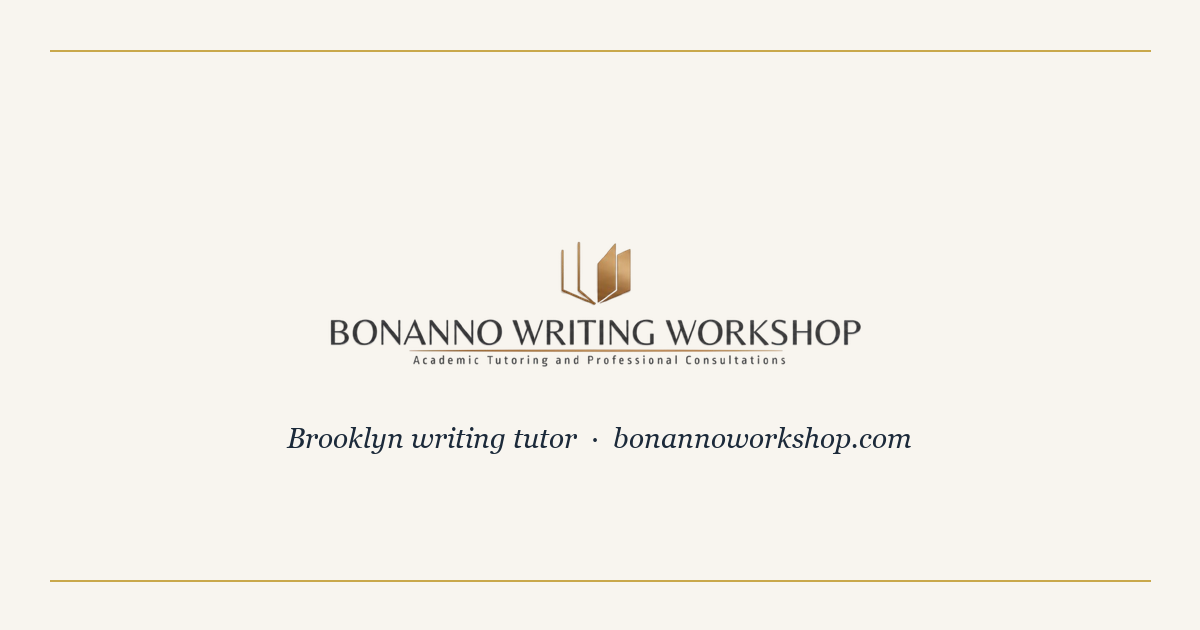
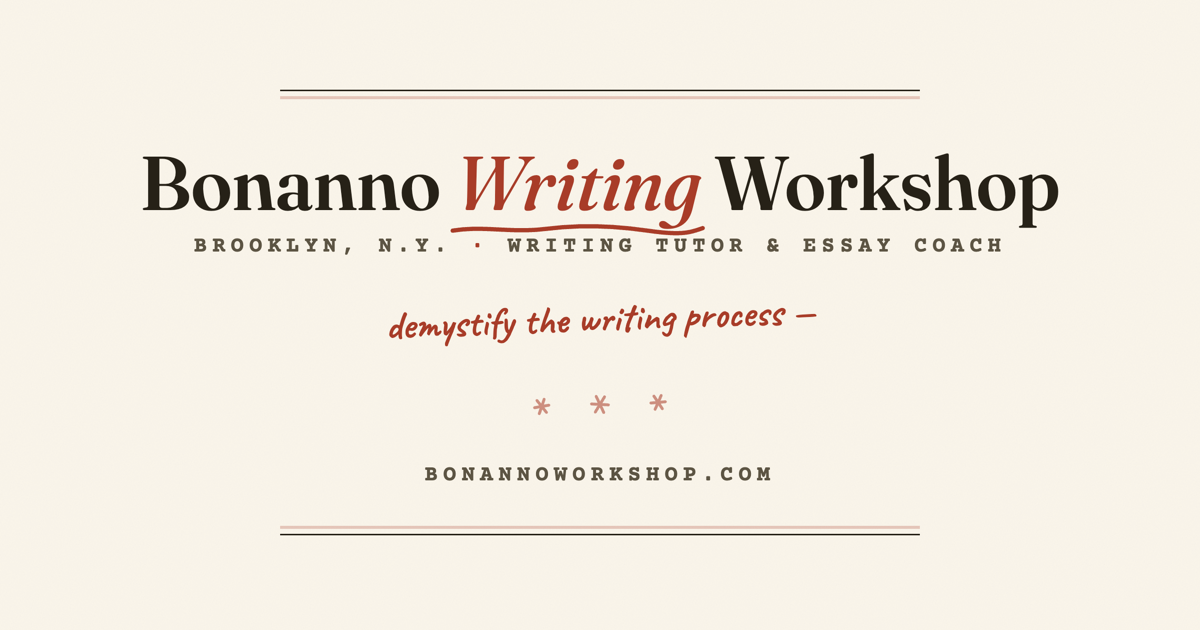
Add design-system style guide, agent instructions, and rebranded OG image

diff --git a/STYLEGUIDE.md b/STYLEGUIDE.md
@@ -1,0 +1,176 @@
+# Bonanno Writing Workshop — Design System
+
+**"The draft on the desk."** Every page reads as a working manuscript that a good
+teacher has marked up: warm paper, ink text, red-pencil annotations, typewriter
+labels, handwritten margin notes. Shipped July 2026, replacing the navy/gold design.
+
+This is the canonical reference for anyone (human or agent) building new pages or
+documents for bonannoworkshop.com or restyling the bww-manager app. Match it exactly —
+don't improvise new colors, fonts, or motifs without Sarah's sign-off.
+
+---
+
+## 1. Tokens
+
+Copy this block into any new page. Pages on this site are **self-contained HTML files
+with inline CSS** — no shared stylesheet, no frameworks, no build step.
+
+```css
+:root {
+    --paper: #faf5ea;         /* page background (warm paper) */
+    --paper-deep: #f2ead7;    /* deeper band sections (intensive, testimonials) */
+    --paper-card: #fffdf6;    /* cards / sheets that sit on the paper */
+    --ink: #262117;           /* primary text; also the footer background */
+    --ink-soft: #5c5443;      /* secondary text */
+    --ink-faint: #8a8171;     /* metadata, fine print */
+    --pencil: #a83c28;        /* THE accent: teacher's red pencil */
+    --pencil-soft: rgba(168, 60, 40, 0.55);
+    --pencil-faint: rgba(168, 60, 40, 0.22);
+    --rule: rgba(38, 33, 23, 0.14);   /* hairlines (0.16 on cards is also used) */
+    --serif: 'Fraunces', Georgia, serif;
+    --body: 'Newsreader', Georgia, serif;
+    --hand: 'Caveat', cursive;
+    --mono: 'Courier Prime', 'Courier New', monospace;
+}
+```
+
+Newsletter archive accent rotation (`/writing-tips` cards only): `--teal: #2f6f62`,
+`--sienna: #b35a2d`, `--gold: #b08d3c`. Inside the letters themselves the accent is
+uniformly `--pencil`.
+
+**Paper texture** — the body gets an SVG noise overlay (see any page's `body`
+`background-image`, a `feTurbulence` data URI at `opacity='0.05'`).
+
+## 2. Type
+
+Google Fonts load (one link, all four families):
+
+```
+https://fonts.googleapis.com/css2?family=Fraunces:ital,opsz,wght@0,9..144,400;0,9..144,500;0,9..144,600;1,9..144,400;1,9..144,500&family=Newsreader:ital,opsz,wght@0,6..72,400;0,6..72,500;1,6..72,400&family=Caveat:wght@500;600&family=Courier+Prime:ital,wght@0,400;0,700;1,400&display=swap
+```
+
+| Role | Font | Usage |
+|---|---|---|
+| Display / headings | **Fraunces** 500–600 | h1 `clamp(44px, 5.6vw, 68px)` on the homepage hero; section h2 34px; card h3 19–24px. Italic Fraunces for emphasis words and pull-quotes. |
+| Body | **Newsreader** 400/500 | 17.5px, line-height 1.75. Secondary text in `--ink-soft`. |
+| Labels / meta | **Courier Prime** 700 | `.type-label`: 12.5px, `letter-spacing: 0.22em`, uppercase, `--pencil`. Softer meta (`.type-meta`): 13px, `--ink-soft`. Buttons also use Courier. |
+| Handwriting | **Caveat** 600 | `.hand-note`: ~20–22px, `--pencil`, always slightly rotated (`rotate(-1.5deg)` to `-4deg`). This is "Sarah's pencil" — margin notes, asides, insertions. |
+
+## 3. Signature motifs (copy from index.html)
+
+- **Squiggle underline** — hand-drawn SVG under one key phrase per heading, stroke
+  `--pencil`, animates via `stroke-dashoffset` on reveal. Class `.squiggle`. Use on
+  at most one phrase per page section.
+- **Dinkus** — three hand-drawn asterisks (SVG, `--pencil-soft`, whole thing rotated
+  −2°) marking paper-to-paper section breaks. Class `.dinkus`. Vary each instance's
+  per-asterisk rotations slightly.
+- **Ledger section head** — `.section-head`: mono `§ N` number in pencil + Fraunces h2,
+  hairline bottom border with a 64px × 3px `--pencil-soft` overstrike at the left.
+- **Hand notes** — `.hand-note`/`.margin-note` Caveat asides. Wording must sound like
+  Sarah's real feedback voice (see §6).
+- **Torn paper edges** — `.torn` band edges via a jagged SVG strip in `--paper`,
+  repeated-x, flipped (`scaleY(-1)`) for the bottom edge. Used on `--paper-deep` bands.
+- **Proof-mark watermarks** — `.proofmark`: oversized ¶ / ✓ / ^ / "stet." at
+  `opacity: 0.05`, absolutely positioned in section corners, `display: none` ≤1100px.
+- **Sheets** — `.sheet`: `--paper-card` card, 1px `--rule` border, slight rotation
+  (±0.3–2°), soft double shadow, optional masking-tape pseudo-element on top.
+  Cards never use border-radius beyond 2px; this design is square-cornered.
+- **Clip-out coupon** — `.clipout`: dashed `--pencil-soft` border with a rotated ✂
+  scissors glyph breaking the top edge. Used for signup forms (/subscribe, /worksheet,
+  homepage lead magnet).
+
+## 4. Components
+
+- **Buttons** (`.btn`): Courier 700, uppercase, letterspaced; solid `--ink` or
+  `--pencil` background with paper text; **hard offset shadow** `3px 3px 0
+  var(--pencil-faint)` that grows on hover (translate −1px,−1px) and shrinks on
+  :active. Ghost variant: transparent with `--ink-soft` border. Radius 2px.
+- **Links**: `.link-under` — mono uppercase with a 2px `--pencil-soft` bottom border.
+  In-copy links are `--pencil`.
+- **Forms**: write-on-the-line inputs — no boxes; `border-bottom: 1.5px solid
+  var(--ink-soft)`, focus → `--pencil`. Textareas get ruled-line backgrounds
+  (repeating-linear-gradient). Labels in mono uppercase.
+- **Nav**: sticky, blurred paper background, hairline bottom + 3px-gap second hairline
+  (`.nav-wrapper::after`). Brand: `Bonanno <em>Writing</em> Workshop` in Fraunces, the
+  italic word in `--pencil`. Links in mono uppercase. Mobile: text "Menu" toggle,
+  links in a dropdown panel.
+- **Footer**: solid `--ink`, paper-toned text, Fraunces brand, mono labels.
+- **Price/menu rows**: `.menu-line` — name + `(72hr)` mono aside + dotted leader +
+  Fraunces price + pencil arrow.
+- **Carousels** (testimonials, hero draft-card): grid-stacked slides (`grid-area: 1/1`)
+  fading via `.is-active`; fade out fully before fade in (`transition-delay` on the
+  incoming slide) so text never overlaps text. Auto-advance 7–10s, pause on hover.
+- **Scroll reveal**: `.reveal`/`.revealed` opacity+translateY via IntersectionObserver.
+  Always honor `prefers-reduced-motion` (show everything, kill animations).
+
+## 5. Page anatomy
+
+- Content container `.ms`: max-width 1100px, `padding: 0 40px` (28px ≤960px).
+- **Never set a shorthand `padding:` on a section that carries `.ms`** — it wipes the
+  horizontal padding (this bug shipped once). Use `padding-top` / `padding-bottom`.
+- Section rhythm on the homepage: paper → paper (dinkus between) → deep band (torn
+  edges) → paper… Vertical padding ~90–110px top-level, 60–80px on secondary sections.
+- `body { overflow-x: clip }` — rotated sheets otherwise cause sideways scroll.
+- Standalone documents (newsletter issues, worksheet, subscribe) are centered "sheets"
+  on a `#e9e2d2` desk backdrop, no site nav — just a masthead with the brand and a
+  mono label, over a 1px ink rule + 2px `--pencil-faint` double rule.
+
+## 6. Content rules (important)
+
+- **Copy belongs to Sarah.** Never rewrite, tighten, or "improve" her site copy,
+  testimonials, or newsletter text. Port verbatim. Trimming for a layout requires
+  flagging it to her.
+- **Pedagogy is hers alone.** Handwritten notes, worksheet language, example claims,
+  and anything that sounds like teaching must come from her own materials (worksheet,
+  newsletter issues, the "Imposter Claims" deck) — never invented. When in doubt, use
+  placeholder text and ask her to supply wording. She's an experienced teacher; do not
+  add teaching suggestions.
+- Facts that must stay accurate: rates ($150/$180 per session; intensive $1,400/$2,000;
+  async review $75/$110/$100/$150), package rules (monthly & semester packages include
+  free rescheduling; semester adds 4 async essay reviews), payment methods, the
+  guarantee footnotes.
+- Newsletters: monthly "Advice from the Workshop"; issues live at
+  `/writing-tips/issue-NN.html` and follow the issue template (see issue-01 for the
+  canonical structure; 02 and 03 for the callback and spectrum variants).
+
+## 7. Accessibility & quality bar
+
+- Contrast: `--ink` and `--ink-soft` on paper both pass. Buttons are paper-on-ink or
+  paper-on-pencil (both pass). Never put white text on gold-like mid tones — the
+  failure mode of the old design.
+- All decorative SVGs get `aria-hidden="true"`. Forms keep `aria-label`s.
+- `prefers-reduced-motion: reduce` must fully disable animation on anything animated.
+- Test at 390px, ~768px, ~1000px, 1440px. Watch for: nowrap marked-up spans
+  overflowing (use `text-decoration: underline wavy` via `.mark-wavy` for long
+  phrases), absolutely-positioned notes colliding with text.
+
+## 8. Print / PDF documents
+
+The worksheet (`worksheet-main-claim.html` → PDF via headless Chrome
+`--print-to-pdf --no-pdf-header-footer`) is the model: `@page { size: letter; margin:
+0.45in }`, tightened print font sizes, `print-color-adjust: exact`, explicit
+`page-break-before` between sheets. Verify page count after any content change.
+
+**bww-manager app** (separate repo, hosted on Cloudflare): fully rebranded July 2026.
+The admin UI runs on remapped legacy token names (`--navy` now holds ink, `--gold`
+holds pencil, etc. — see its `:root`) with Fraunces replacing Cormorant for headings;
+client-facing documents (session summary, invoice, receipt) additionally get a scoped
+override block — search "CLIENT-FACING DOCUMENTS" in its index.html.
+
+## 9. Site inventory
+
+| Path | What it is |
+|---|---|
+| `/` (index.html) | Homepage; animated "imposter claims" hero card (6 slides, content from Sarah's deck) |
+| `/writing-tips/` | Newsletter archive; rotating accent card spines |
+| `/writing-tips/issue-NN.html` | Individual letters (standalone sheets) |
+| `/subscribe/`, `/worksheet/` | Clip-out signup pages (MailerLite form posts) |
+| `worksheet-main-claim.html/.pdf` | The lead-magnet worksheet document (unlinked; PDF uploaded to MailerLite) |
+| `/welcome/academic-tutoring/` | Client welcome packet — **still old navy/gold**, restyle pending |
+| `/newsletter/` | Redirect to /writing-tips |
+
+Head requirements for every public page: real `<title>` + meta description, OG/Twitter
+tags (og-image.png — note: still the old-brand image, refresh pending), favicon
+(`/favicon.ico` — also old-brand, refresh pending), Google Analytics `G-KL55FCMMMT`,
+and MailerLite Universal on pages with signup forms. `noindex` only on /worksheet and
+utility documents.

diff --git a/CLAUDE.md b/CLAUDE.md
@@ -1,0 +1,7 @@
+# bonannoworkshop.com
+
+Static site for Sarah Bonanno's tutoring business (GitHub Pages; `CNAME` → bonannoworkshop.com). Self-contained HTML pages with inline CSS — no shared stylesheet, no framework, no build step.
+
+**Before any design or page work, read `STYLEGUIDE.md`** — the canonical design system ("the draft on the desk": paper/ink/red-pencil, Fraunces + Newsreader + Courier Prime + Caveat). It includes non-negotiable content rules: never rewrite Sarah's copy, and never invent teaching language — handwritten notes and examples come from her own materials or from her directly.
+
+Pushing to `main` deploys the live site. Do not push without Sarah's explicit go-ahead. The bww-manager repo (client app, Cloudflare-hosted) shares this brand for its client-facing documents — see STYLEGUIDE.md §8.
